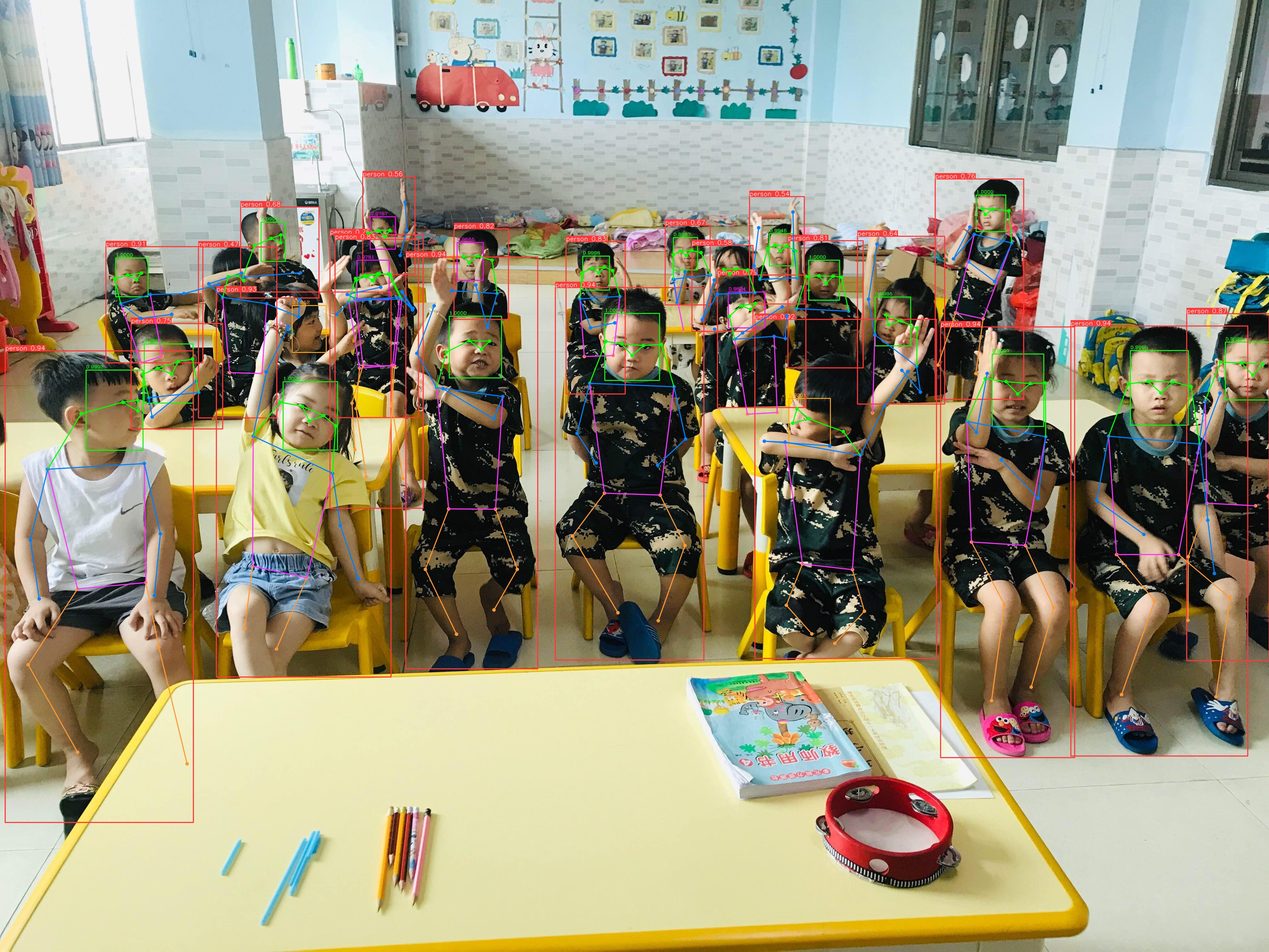
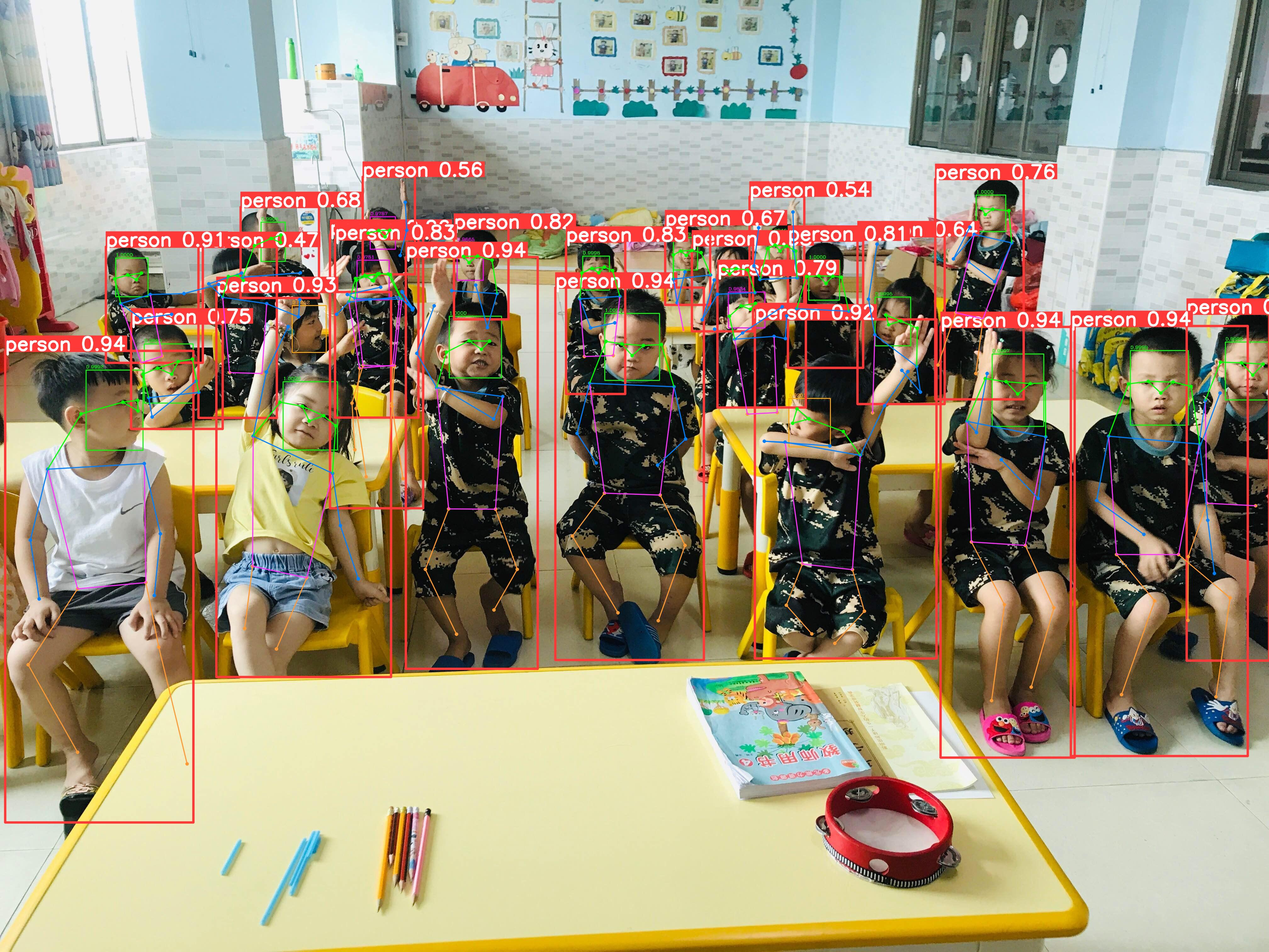
demo

diff --git a/examples/demo/cls_demo.py b/examples/demo/cls_demo.py
@@ -16,7 +16,7 @@ results = model(im2)
 
 for r in results:
     #im_array = r.plot(kpt_radius=3,labels=False,boxes=False,line_width=1)  # plot a BGR numpy array of predictions
-    im_array = r.plot(line_width=2)  # plot a BGR numpy array of predictions
+    im_array = r.plot(kpt_radius=3,line_width=6)  # plot a BGR numpy array of predictions
     im_array = Image.fromarray(im_array[..., ::-1])  # RGB PIL image
     im_array.show()  # show image
     im_array.save('results.jpg')  # save image
